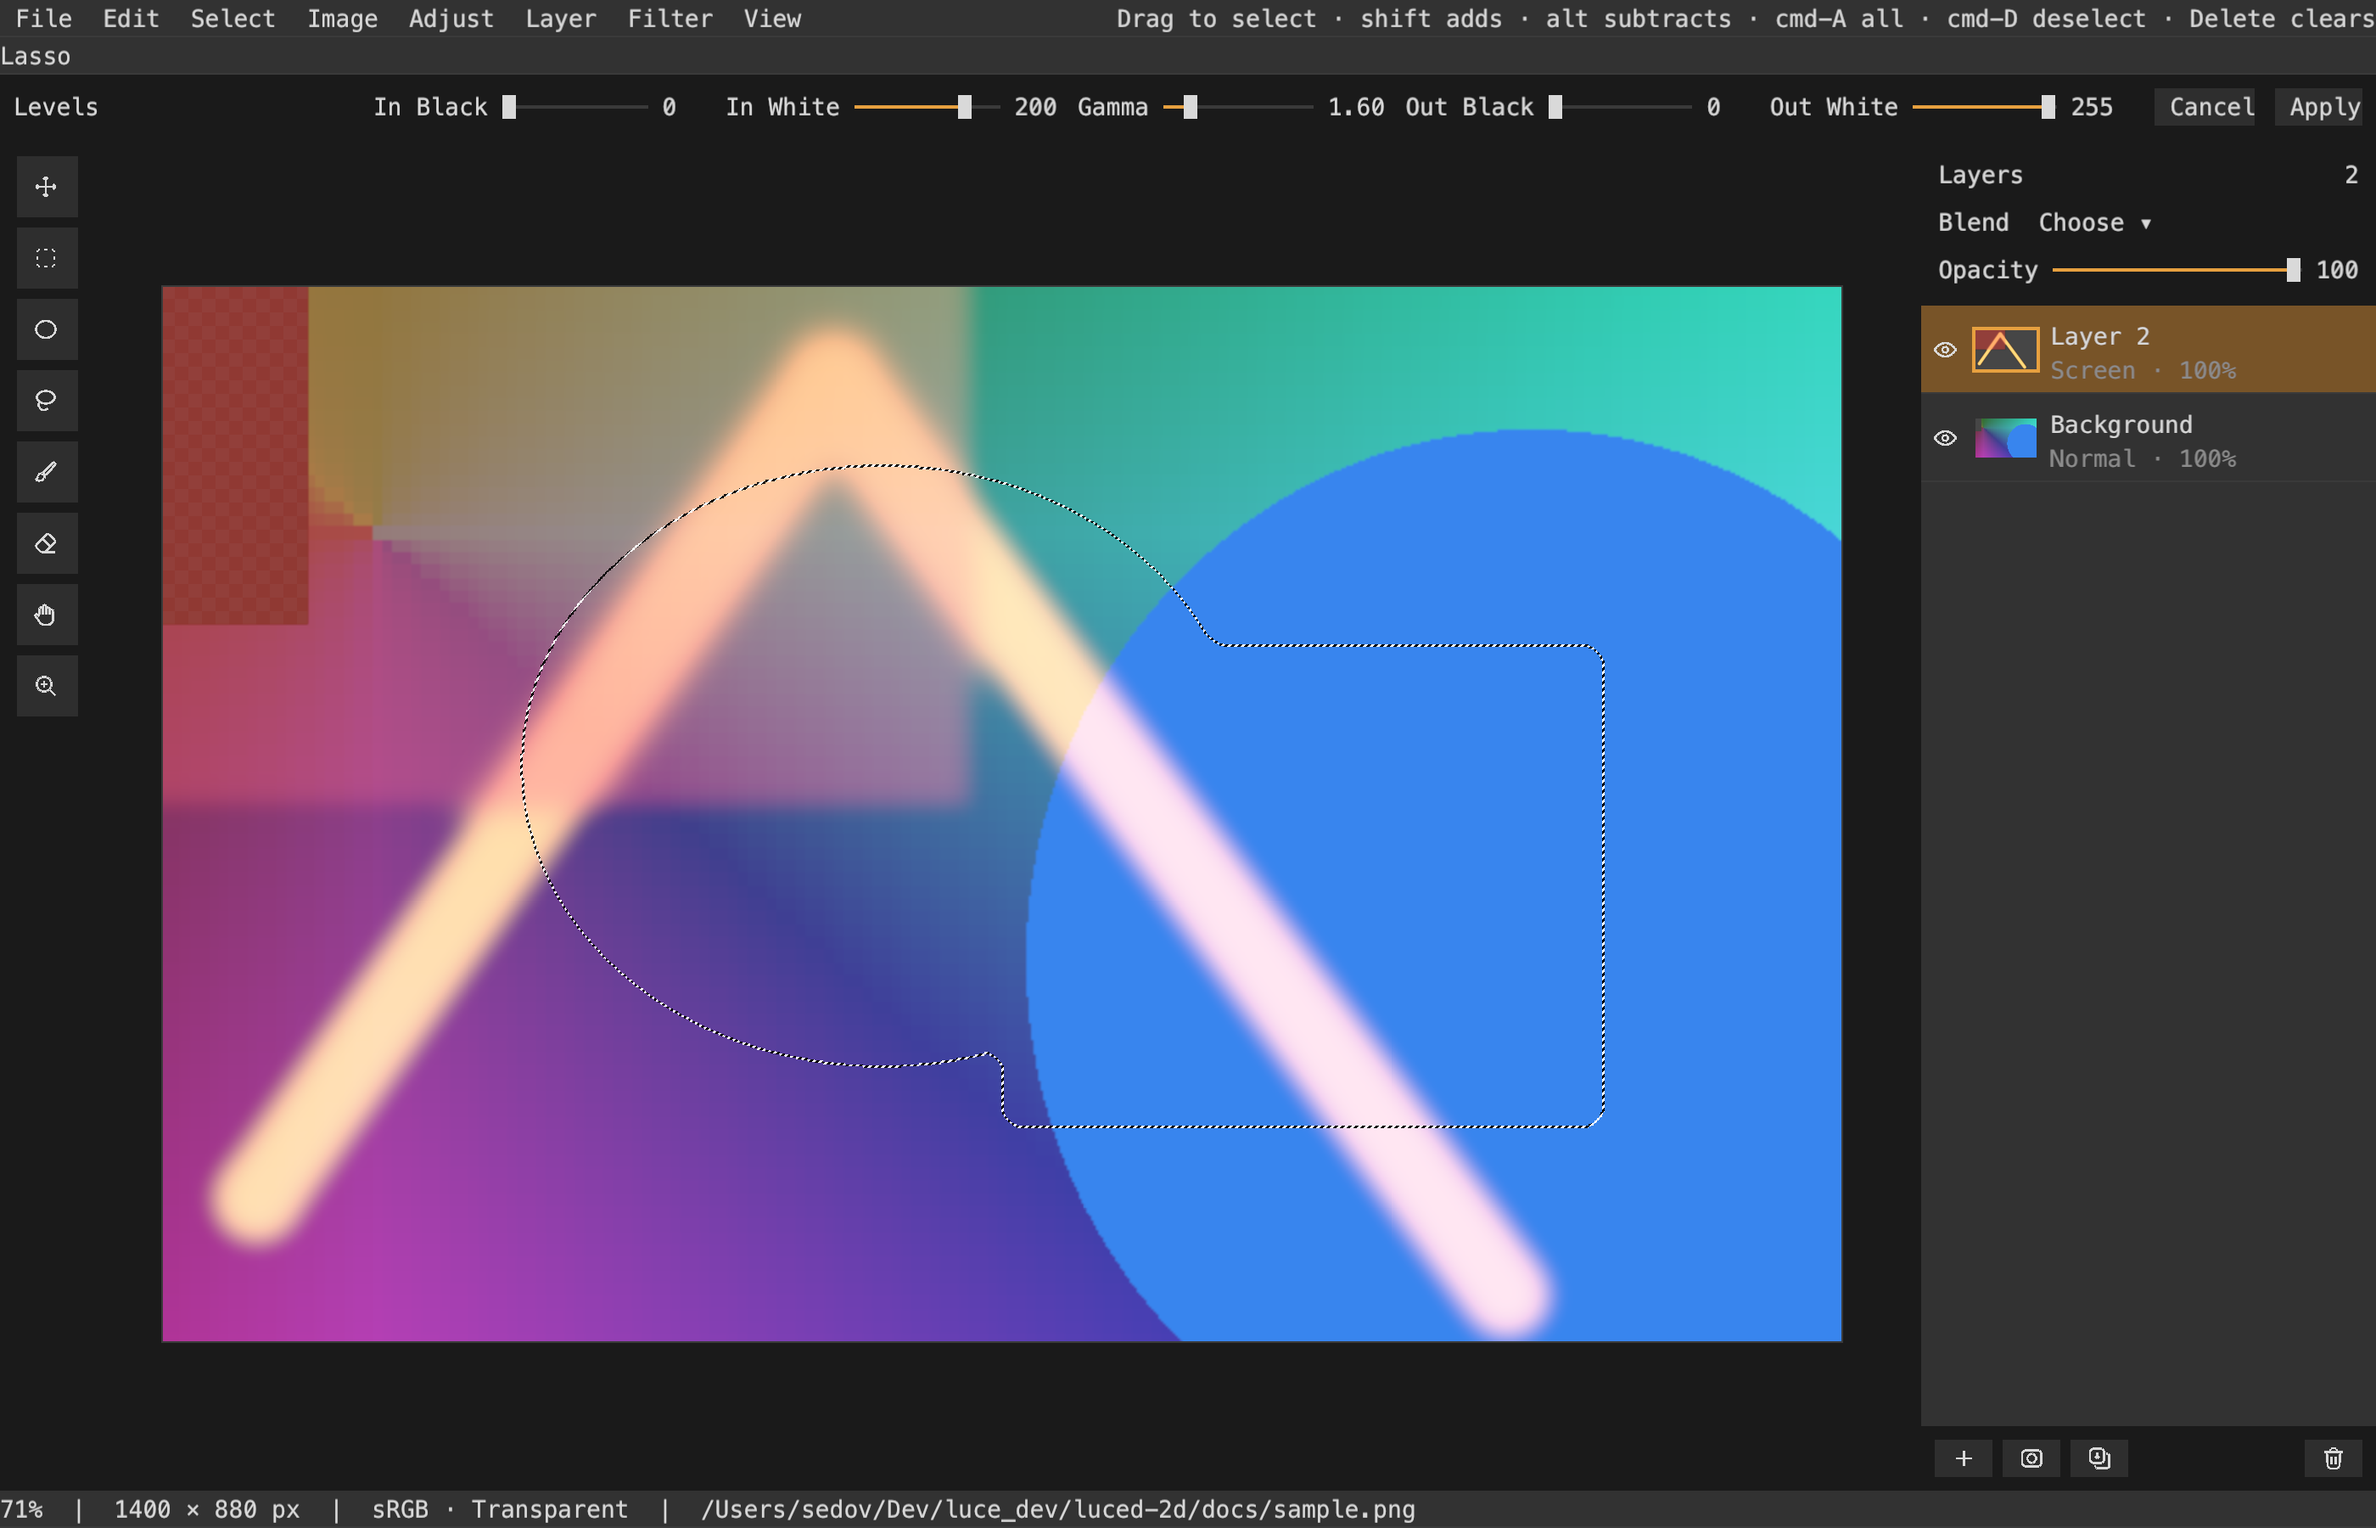
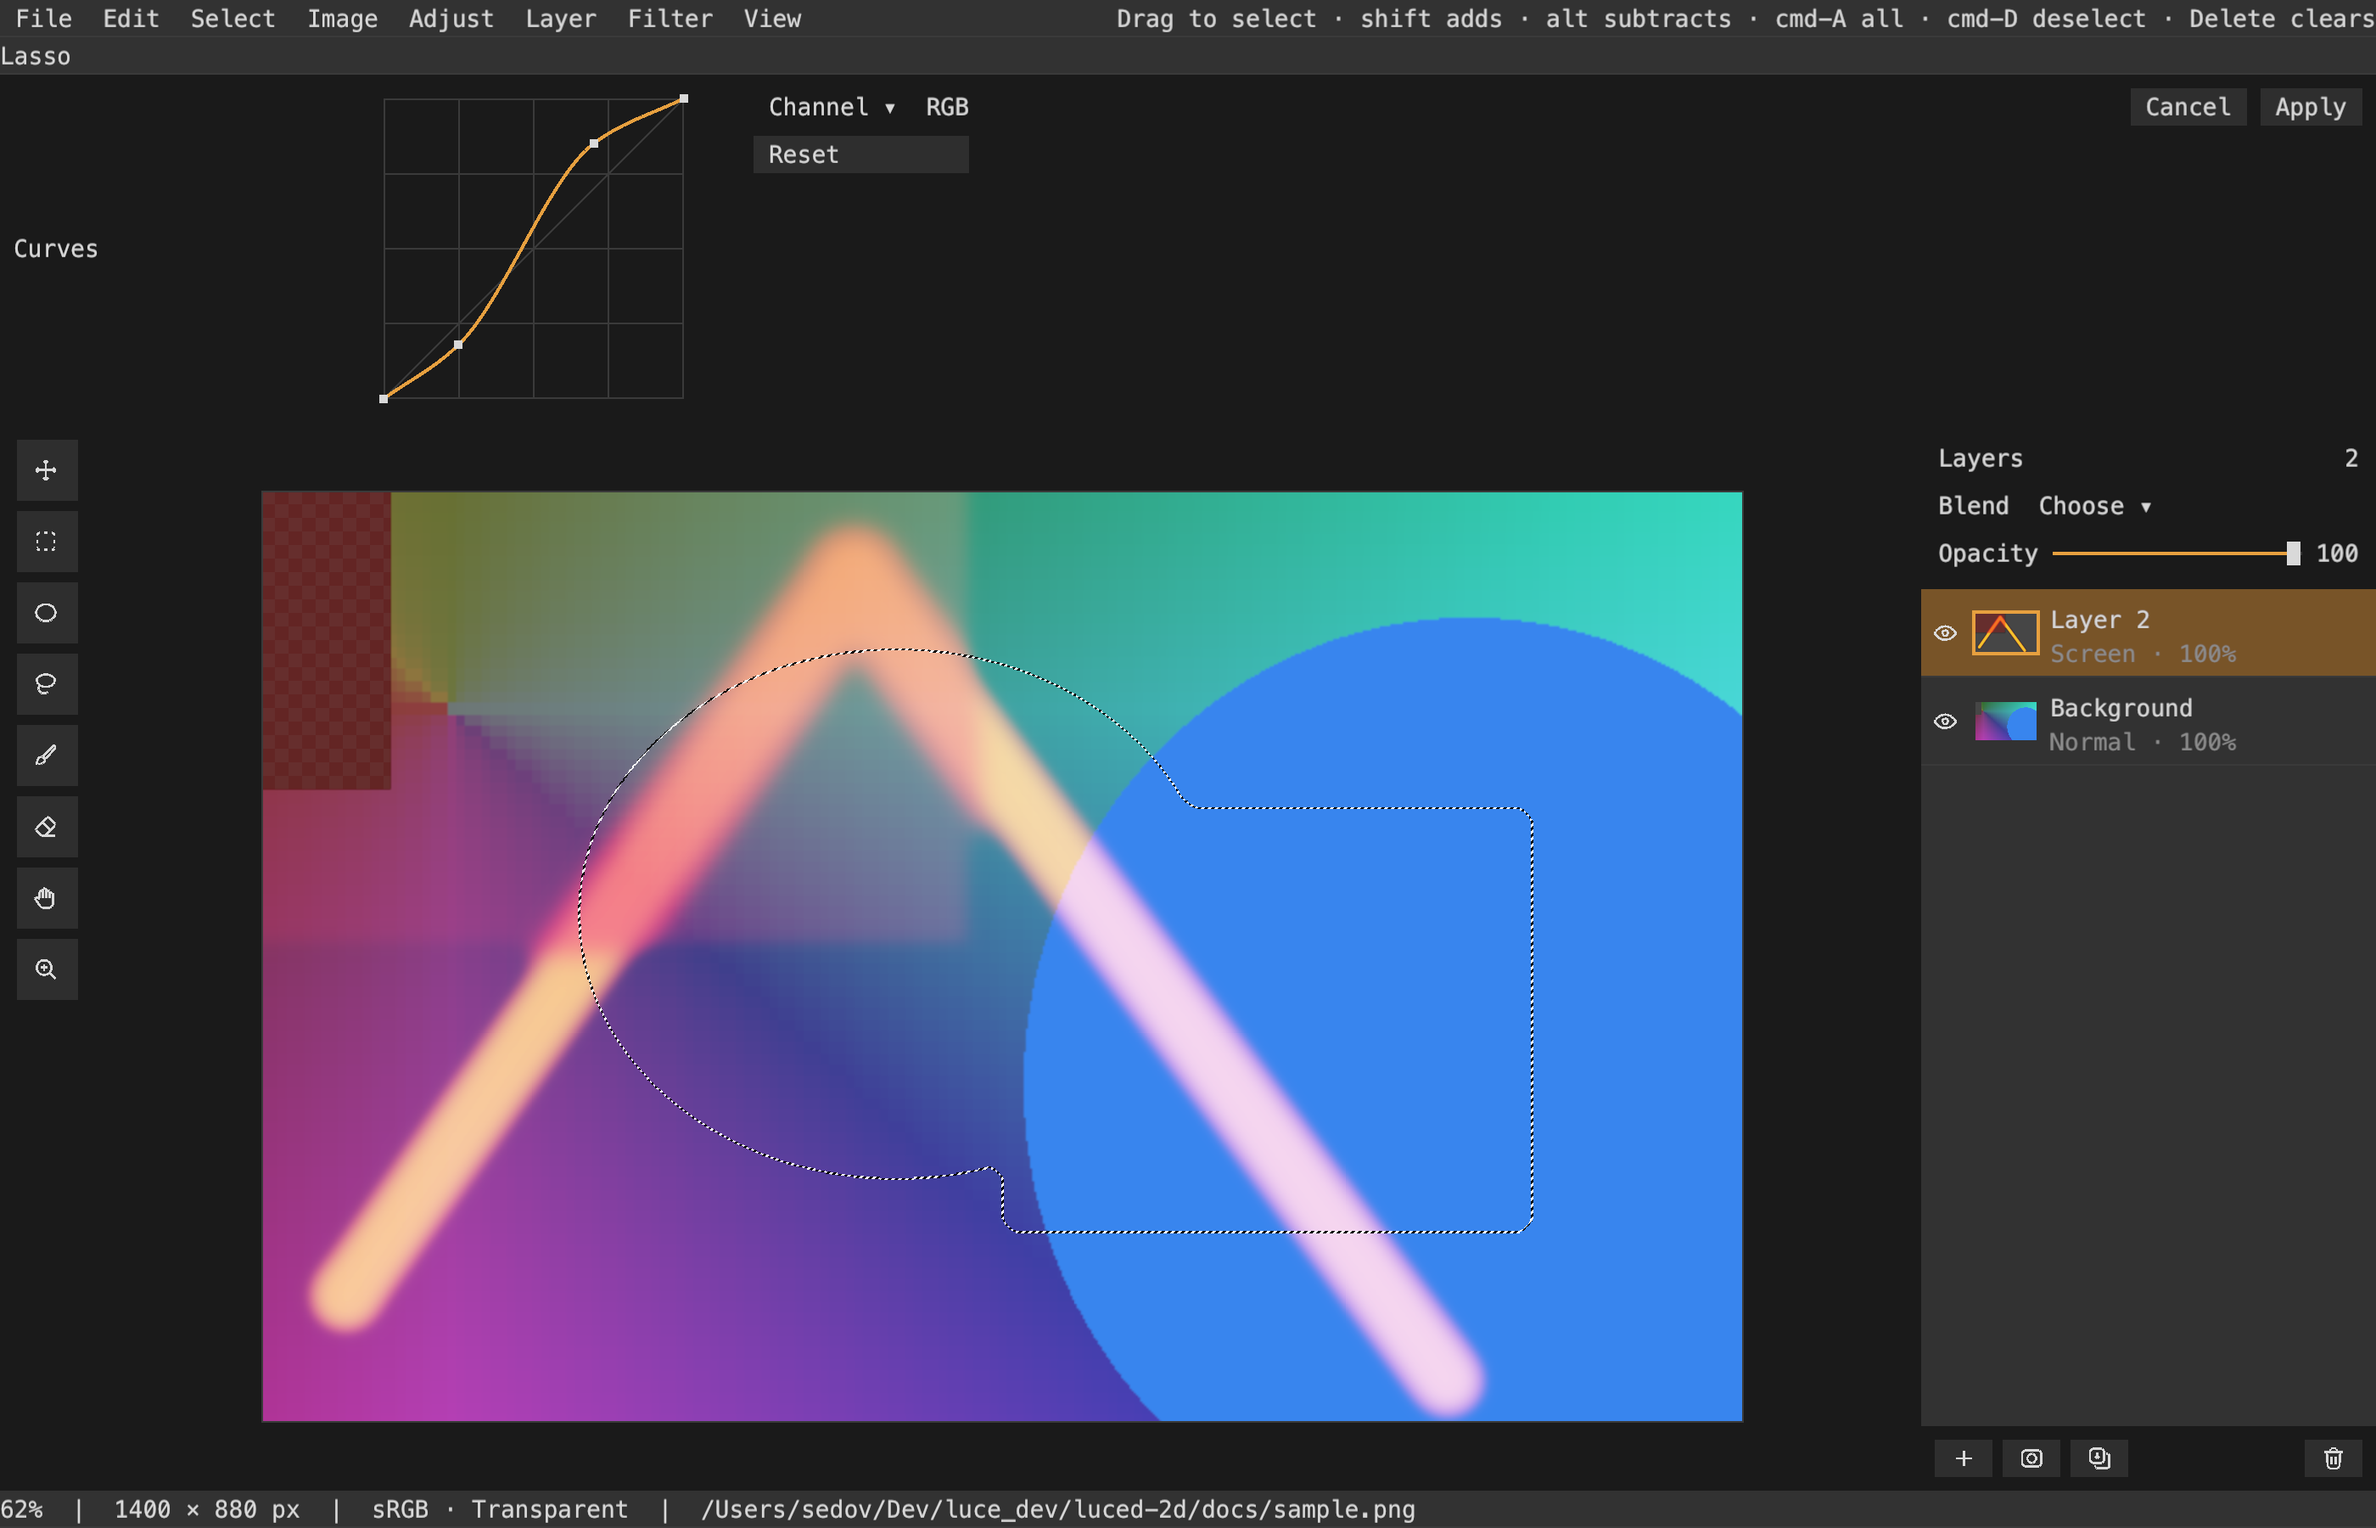
Curves: a curve editor per channel in the adjust bar, previewed live (cmd-M)
Claude-Session: https://claude.ai/code/session_01KSvf935cywg8wGYHPcyZf9

diff --git a/tools/preview.py b/tools/preview.py
@@ -107,10 +107,10 @@ pub func main(arguments: list[str]) -> int!:
             editor.workspace.canvas.select_rectangle(700, 300, 500, 400, 1)
             editor.workspace.adjust_selection(0, 12)
             editor.workspace.choose_tool("lasso")
-            editor.panels.adjust(3)
-            editor.panels.adjust_sliders[3][1].set_value(200.0)
-            editor.panels.adjust_sliders[3][2].set_value(1.6)
-            editor.panels.preview()
+            editor.panels.adjust(7)
+            editor.panels.curve_editor.add_point(0.25, 0.18)
+            editor.panels.curve_editor.add_point(0.7, 0.85)
+            editor.panels.curve_changed()
             editor.panels.refresh()
         if captured:
             editor.app.stop()

diff --git a/README.md b/README.md
@@ -28,8 +28,9 @@ the order of work are in [docs/DESIGN.md](docs/DESIGN.md).
   pointer with a touchpad pinch, the mouse wheel, cmd/ctrl-scroll, the zoom
   tool (`Z`), `+`/`-`, Fit and 100%; pixels stay crisp when magnified.
 - An Adjust menu with destructive adjustments: brightness/contrast, hue/
-  saturation/lightness, invert, levels (cmd-L), desaturate, threshold,
-  posterize, and Filter › Gaussian Blur. Each opens a bar of sliders under
+  saturation/lightness, invert, levels (cmd-L), curves (cmd-M: a Photoshop-
+  style curve editor per channel), desaturate, threshold, posterize, and
+  Filter › Gaussian Blur. Each opens a bar of sliders under
   the header that previews live on the layer; Apply keeps the result as one
   undo step, Cancel puts the pixels back.
 - Opens and saves through the desktop's file dialogs. Saving as `.l2d` keeps
